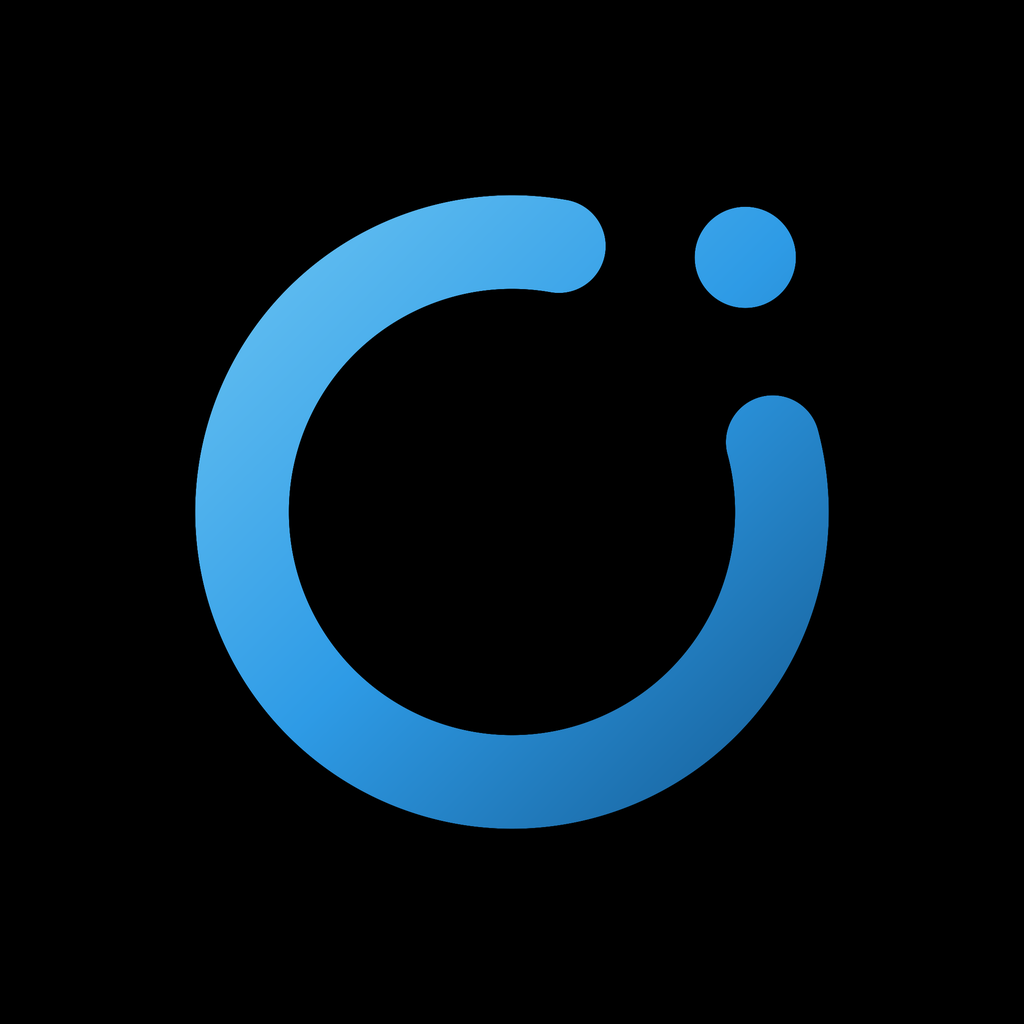
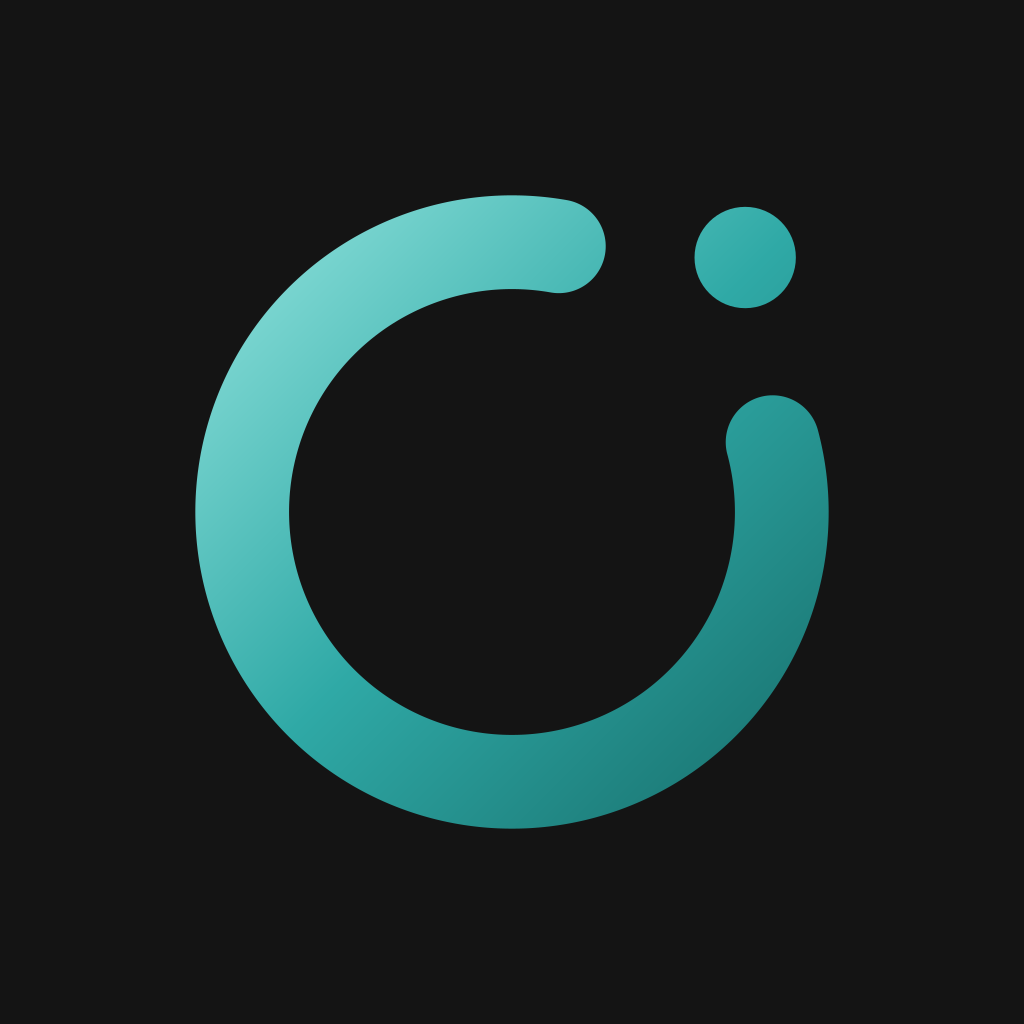
Add files via upload

Changed region(s): [[0.1875, 0.1875, 0.8125, 0.8125], [0.6562, 0.1875, 0.7812, 0.3125]]

diff --git a/www/index.html b/www/index.html
@@ -1,4 +1,4 @@
 <!doctype html><html><head><meta charset="utf-8"><meta name="viewport" content="width=device-width,initial-scale=1,viewport-fit=cover">
-<title>Halo IM</title><style>html,body{margin:0;height:100%;background:#0B1F3A;color:#cfe0f2;font-family:system-ui;display:flex;align-items:center;justify-content:center}</style></head>
+<title>Halo IM</title><style>html,body{margin:0;height:100%;background:#141414;color:#cfe0f2;font-family:system-ui;display:flex;align-items:center;justify-content:center}</style></head>
 <body><div>Loading Halo IM…</div><script>/* Hosted mode loads server.url. This fallback shows only if the site is unreachable. */
 setTimeout(function(){ if(location.host.indexOf('ecofrost')<0){ location.href='https://portal.ecofrost.ae/halo'; } }, 3000);</script></body></html>

diff --git a/capacitor.config.ts b/capacitor.config.ts
@@ -14,11 +14,11 @@ const config: CapacitorConfig = {
     url: 'https://portal.ecofrost.ae/halo',
     cleartext: false,
   },
-  backgroundColor: '#0B1F3A',
+  backgroundColor: '#141414',
   ios: { contentInset: 'always', limitsNavigationsToAppBoundDomains: false },
   android: { allowMixedContent: false },
   plugins: {
-    SplashScreen: { launchShowDuration: 900, backgroundColor: '#0B1F3A', showSpinner: false },
+    SplashScreen: { launchShowDuration: 900, backgroundColor: '#141414', showSpinner: false },
     // Native push via Firebase Cloud Messaging (@capacitor-firebase/messaging).
     // Returns a real FCM token on BOTH iOS and Android, which the server sends to.
     // iOS also needs: Push Notifications + Background Modes capabilities (set in Xcode),
